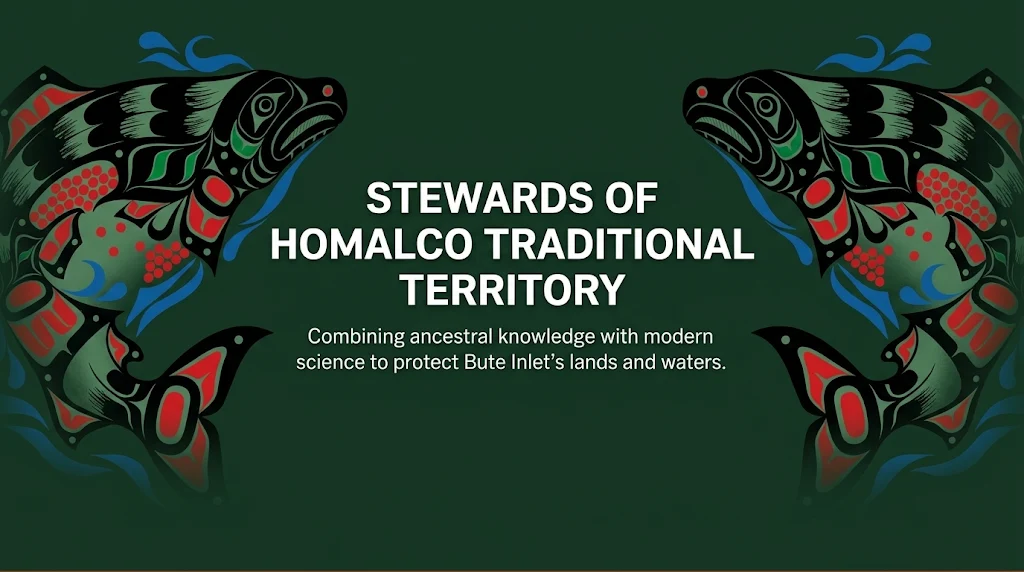
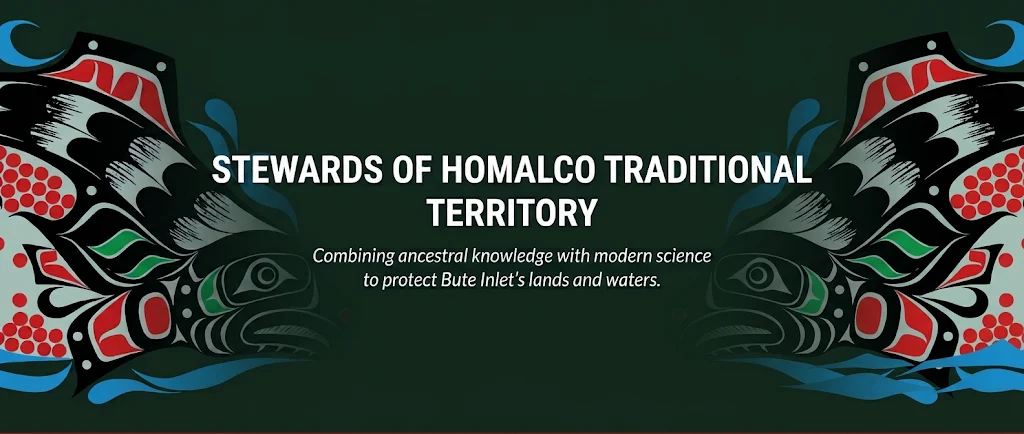
update

diff --git a/style.css b/style.css
@@ -89,18 +89,19 @@ nav a:hover, nav a.active {
 
 /* Hero Banner Container */
 .hero-banner {
-    /* Updated hex code to match the exact dark green of the image background */
-    background-color: #182a21; 
+    background-color: var(--forest-green);
     
-    background-image: url('media/watermarked_img_6947106339480270823.jpg');
+    /* Removed the dark gradient so the true colors of the new image show */
+    background-image: url('media/homalco-banner.webp');
     background-position: center;
     
-    /* Keeps the image fully visible inside the banner without cropping */
-    background-size: contain; 
+    /* Cover stretches the image to fit the banner perfectly */
+    background-size: cover; 
     background-repeat: no-repeat;
     
     color: #ffffff;
-    padding: 12rem 1.5rem; 
+    /* Added more padding to make the banner taller so the image has room */
+    padding: 10rem 1.5rem; 
     text-align: center;
     border-bottom: 4px solid var(--cedar-wood);
 }
